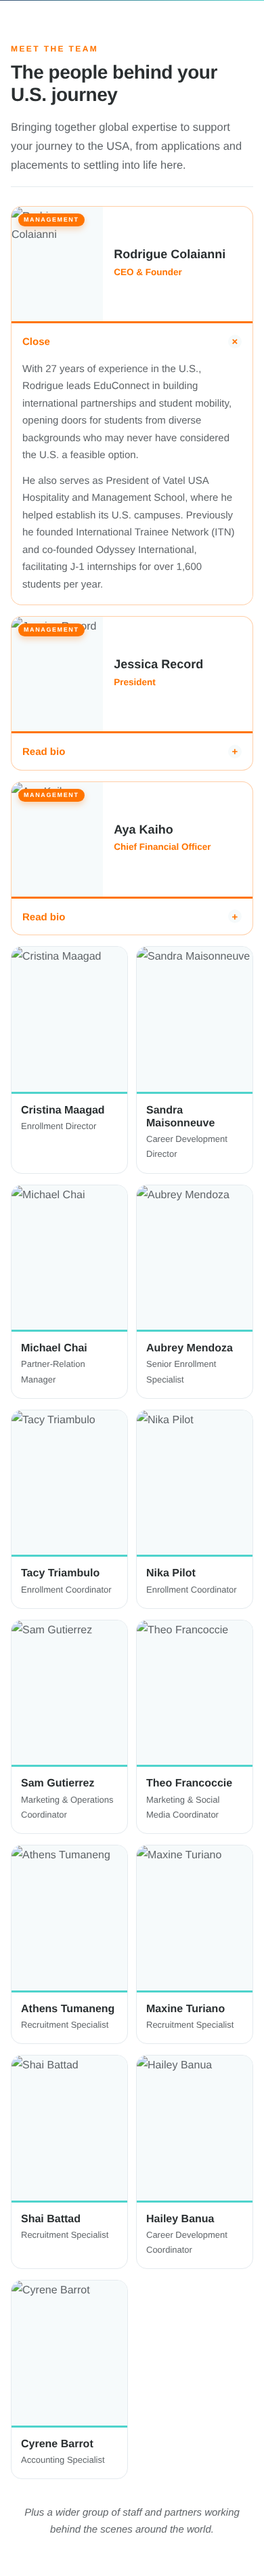
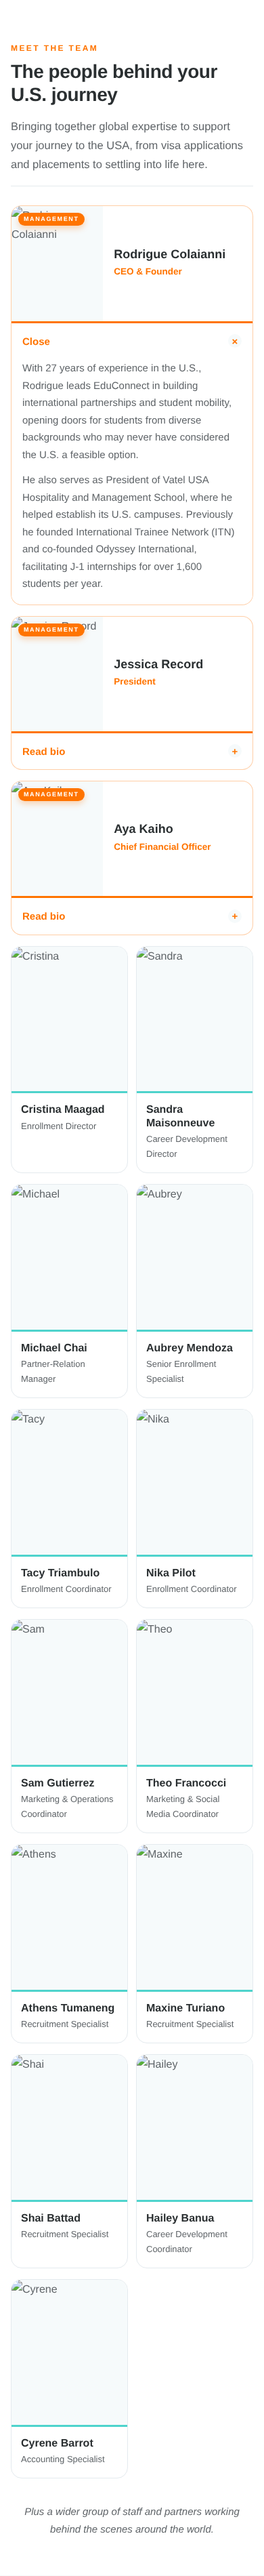
Team page: restore user's latest edits; only swap 3 photos and fix mobile bio
Rebuilt from the user's current pasted version (no hero button, 'visa
applications' copy, Theo Francocci, 'as soon as possible' CTA text), then
applied only: Cyrene/Hailey/Theo photos and the full-width mobile bio.

Claude-Session: https://claude.ai/code/session_01GZPWVdRv6C6DeJS94qZjdM

diff --git a/about-team/team-page.html b/about-team/team-page.html
@@ -8,6 +8,9 @@
      that holds this module full width, so content can reach 1280px.
 
      TO EDIT
+       • Job titles: search for  EDIT TITLE  and replace "Job Title".
+       • Cyrene photo: search for  ADD PHOTO  and swap the
+         initials block for the <img> line shown in the comment.
        • Add a person: copy one <li class="ect-card"> block.
 ============================================================ -->
 
@@ -37,7 +40,6 @@
           <li><strong>3</strong><span>Continents</span></li>
           <li><strong>28+</strong><span>Years of Experience</span></li>
         </ul>
-        <a class="ect-hero__jump" href="#ect-team">Meet the team &darr;</a>
       </div>
 
       <div class="ect-map ect-map--hero" role="img"
@@ -70,7 +72,7 @@
           <h2 class="ect-head__title">The people behind your U.S. journey</h2>
         </div>
         <p class="ect-head__lead">
-          Bringing together global expertise to support your journey to the USA, from applications and placements to settling into life here.
+          Bringing together global expertise to support your journey to the USA, from visa applications and placements to settling into life here.
         </p>
       </header>
 
@@ -128,91 +130,91 @@
           </details>
         </li>
         <li class="ect-card">
-          <div class="ect-card__photo"><img loading="lazy" decoding="async" width="600" height="750" src="https://educonnectusa.com/wp-content/uploads/2026/10/Cristina.jpg" alt="Cristina Maagad" /></div>
+          <div class="ect-card__photo"><img loading="lazy" decoding="async" width="600" height="750" src="https://educonnectusa.com/wp-content/uploads/2026/10/Cristina.jpg" alt="Cristina" /></div>
           <div class="ect-card__body">
             <h3 class="ect-card__name">Cristina Maagad</h3>
             <p class="ect-card__role">Enrollment Director</p>
           </div>
         </li>
         <li class="ect-card">
-          <div class="ect-card__photo"><img loading="lazy" decoding="async" width="600" height="750" src="https://educonnectusa.com/wp-content/uploads/2026/10/Sandra.jpg" alt="Sandra Maisonneuve" /></div>
+          <div class="ect-card__photo"><img loading="lazy" decoding="async" width="600" height="750" src="https://educonnectusa.com/wp-content/uploads/2026/10/Sandra.jpg" alt="Sandra" /></div>
           <div class="ect-card__body">
             <h3 class="ect-card__name">Sandra Maisonneuve</h3>
             <p class="ect-card__role">Career Development Director</p>
           </div>
         </li>
         <li class="ect-card">
-          <div class="ect-card__photo"><img loading="lazy" decoding="async" width="600" height="750" src="https://educonnectusa.com/wp-content/uploads/2026/10/Michael.jpg" alt="Michael Chai" /></div>
+          <div class="ect-card__photo"><img loading="lazy" decoding="async" width="600" height="750" src="https://educonnectusa.com/wp-content/uploads/2026/10/Michael.jpg" alt="Michael" /></div>
           <div class="ect-card__body">
             <h3 class="ect-card__name">Michael Chai</h3>
             <p class="ect-card__role">Partner-Relation Manager</p>
           </div>
         </li>
         <li class="ect-card">
-          <div class="ect-card__photo"><img loading="lazy" decoding="async" width="600" height="750" src="https://educonnectusa.com/wp-content/uploads/2026/10/Aubrey.jpg" alt="Aubrey Mendoza" /></div>
+          <div class="ect-card__photo"><img loading="lazy" decoding="async" width="600" height="750" src="https://educonnectusa.com/wp-content/uploads/2026/10/Aubrey.jpg" alt="Aubrey" /></div>
           <div class="ect-card__body">
             <h3 class="ect-card__name">Aubrey Mendoza</h3>
             <p class="ect-card__role">Senior Enrollment Specialist</p>
           </div>
         </li>
         <li class="ect-card">
-          <div class="ect-card__photo"><img loading="lazy" decoding="async" width="600" height="750" src="https://educonnectusa.com/wp-content/uploads/2026/10/Tacy.jpg" alt="Tacy Triambulo" /></div>
+          <div class="ect-card__photo"><img loading="lazy" decoding="async" width="600" height="750" src="https://educonnectusa.com/wp-content/uploads/2026/10/Tacy.jpg" alt="Tacy" /></div>
           <div class="ect-card__body">
             <h3 class="ect-card__name">Tacy Triambulo</h3>
             <p class="ect-card__role">Enrollment Coordinator</p>
           </div>
         </li>
         <li class="ect-card">
-          <div class="ect-card__photo"><img loading="lazy" decoding="async" width="600" height="750" src="https://educonnectusa.com/wp-content/uploads/2026/10/Nika.jpg" alt="Nika Pilot" /></div>
+          <div class="ect-card__photo"><img loading="lazy" decoding="async" width="600" height="750" src="https://educonnectusa.com/wp-content/uploads/2026/10/Nika.jpg" alt="Nika" /></div>
           <div class="ect-card__body">
             <h3 class="ect-card__name">Nika Pilot</h3>
             <p class="ect-card__role">Enrollment Coordinator</p>
           </div>
         </li>
         <li class="ect-card">
-          <div class="ect-card__photo"><img loading="lazy" decoding="async" width="600" height="750" src="https://educonnectusa.com/wp-content/uploads/2026/10/Sam.jpg" alt="Sam Gutierrez" /></div>
+          <div class="ect-card__photo"><img loading="lazy" decoding="async" width="600" height="750" src="https://educonnectusa.com/wp-content/uploads/2026/10/Sam.jpg" alt="Sam" /></div>
           <div class="ect-card__body">
             <h3 class="ect-card__name">Sam Gutierrez</h3>
-            <p class="ect-card__role">Marketing &amp; Operations Coordinator</p>
+            <p class="ect-card__role">Marketing & Operations Coordinator</p>
           </div>
         </li>
         <li class="ect-card">
-          <div class="ect-card__photo"><img loading="lazy" decoding="async" width="600" height="750" src="https://educonnectusa.com/wp-content/uploads/2026/10/Theo.jpg?v=2" alt="Theo Francoccie" /></div>
+          <div class="ect-card__photo"><img loading="lazy" decoding="async" width="600" height="750" src="https://educonnectusa.com/wp-content/uploads/2026/10/Theo.jpg?v=2" alt="Theo" /></div>
           <div class="ect-card__body">
-            <h3 class="ect-card__name">Theo Francoccie</h3>
-            <p class="ect-card__role">Marketing &amp; Social Media Coordinator</p>
+            <h3 class="ect-card__name">Theo Francocci</h3>
+            <p class="ect-card__role">Marketing & Social Media Coordinator</p>
           </div>
         </li>
         <li class="ect-card">
-          <div class="ect-card__photo"><img loading="lazy" decoding="async" width="600" height="750" src="https://educonnectusa.com/wp-content/uploads/2026/10/Athens.jpg" alt="Athens Tumaneng" /></div>
+          <div class="ect-card__photo"><img loading="lazy" decoding="async" width="600" height="750" src="https://educonnectusa.com/wp-content/uploads/2026/10/Athens.jpg" alt="Athens" /></div>
           <div class="ect-card__body">
             <h3 class="ect-card__name">Athens Tumaneng</h3>
             <p class="ect-card__role">Recruitment Specialist</p>
           </div>
         </li>
         <li class="ect-card">
-          <div class="ect-card__photo"><img loading="lazy" decoding="async" width="600" height="750" src="https://educonnectusa.com/wp-content/uploads/2026/10/Maxine.jpg" alt="Maxine Turiano" /></div>
+          <div class="ect-card__photo"><img loading="lazy" decoding="async" width="600" height="750" src="https://educonnectusa.com/wp-content/uploads/2026/10/Maxine.jpg" alt="Maxine" /></div>
           <div class="ect-card__body">
             <h3 class="ect-card__name">Maxine Turiano</h3>
             <p class="ect-card__role">Recruitment Specialist</p>
           </div>
         </li>
         <li class="ect-card">
-          <div class="ect-card__photo"><img loading="lazy" decoding="async" width="600" height="750" src="https://educonnectusa.com/wp-content/uploads/2026/10/Shai.jpg" alt="Shai Battad" /></div>
+          <div class="ect-card__photo"><img loading="lazy" decoding="async" width="600" height="750" src="https://educonnectusa.com/wp-content/uploads/2026/10/Shai.jpg" alt="Shai" /></div>
           <div class="ect-card__body">
             <h3 class="ect-card__name">Shai Battad</h3>
             <p class="ect-card__role">Recruitment Specialist</p>
           </div>
         </li>
         <li class="ect-card">
-          <div class="ect-card__photo"><img loading="lazy" decoding="async" width="600" height="750" src="https://educonnectusa.com/wp-content/uploads/2026/10/Hailey.jpg?v=2" alt="Hailey Banua" /></div>
+          <div class="ect-card__photo"><img loading="lazy" decoding="async" width="600" height="750" src="https://educonnectusa.com/wp-content/uploads/2026/10/Hailey.jpg?v=2" alt="Hailey" /></div>
           <div class="ect-card__body">
             <h3 class="ect-card__name">Hailey Banua</h3>
             <p class="ect-card__role">Career Development Coordinator</p>
           </div>
         </li>
         <li class="ect-card">
-          <div class="ect-card__photo"><img loading="lazy" decoding="async" width="600" height="750" src="https://educonnectusa.com/wp-content/uploads/2026/10/Cyrene.jpg?v=2" alt="Cyrene Barrot" /></div>
+          <div class="ect-card__photo"><img loading="lazy" decoding="async" width="600" height="750" src="https://educonnectusa.com/wp-content/uploads/2026/10/Cyrene.jpg?v=2" alt="Cyrene" /></div>
           <div class="ect-card__body">
             <h3 class="ect-card__name">Cyrene Barrot</h3>
             <p class="ect-card__role">Accounting Specialist</p>
@@ -273,7 +275,7 @@
     <div class="ect-wrap ect-cta__inner">
       <div>
         <h2 class="ect-cta__title">Ready to talk to someone on our team?</h2>
-        <p class="ect-cta__text">Reach out and an advisor will get back to you within 48 hours.</p>
+        <p class="ect-cta__text">Reach out and an advisor will get back to you as soon as possible.</p>
       </div>
       <div class="ect-cta__actions">
         <a class="ect-btn ect-btn--primary" href="https://wa.me/16263443218" target="_blank" rel="noopener">Chat on WhatsApp</a>
@@ -561,21 +563,12 @@
     grid-template-areas:"photo body" "bio bio";
   }
   .ect-card--lead .ect-card__photo{grid-area:photo;align-self:start}
-  .ect-card--lead .ect-card__body{
-    grid-area:body;align-self:center;padding:16px;
-    border-top:0;
-  }
+  .ect-card--lead .ect-card__body{grid-area:body;align-self:center;padding:16px;border-top:0}
   .ect-card--lead .ect-card__name{font-size:18px}
   .ect-card--lead .ect-card__role{font-size:13.5px}
   .ect-card > .ect-bio{grid-area:bio;padding:0;border-top:3px solid var(--ect-orange)}
-  .ect-bio summary{
-    display:flex;justify-content:space-between;width:100%;
-    padding:14px 16px;font-size:15px;color:#ff7400;
-  }
-  .ect-bio__panel{
-    position:static;padding:0 16px 18px;background:#fff;
-    color:var(--ect-body);font-size:15px;line-height:1.7;animation:none;
-  }
+  .ect-bio summary{display:flex;justify-content:space-between;width:100%;padding:14px 16px;font-size:15px;color:#ff7400}
+  .ect-bio__panel{position:static;padding:0 16px 18px;background:#fff;color:var(--ect-body);font-size:15px;line-height:1.7;animation:none}
   .ect-bio[open] summary{color:#ff7400}
   .ect-bio[open] summary::after{background:var(--ect-soft);color:#ff7400}
   .ect-card:hover{transform:none}
